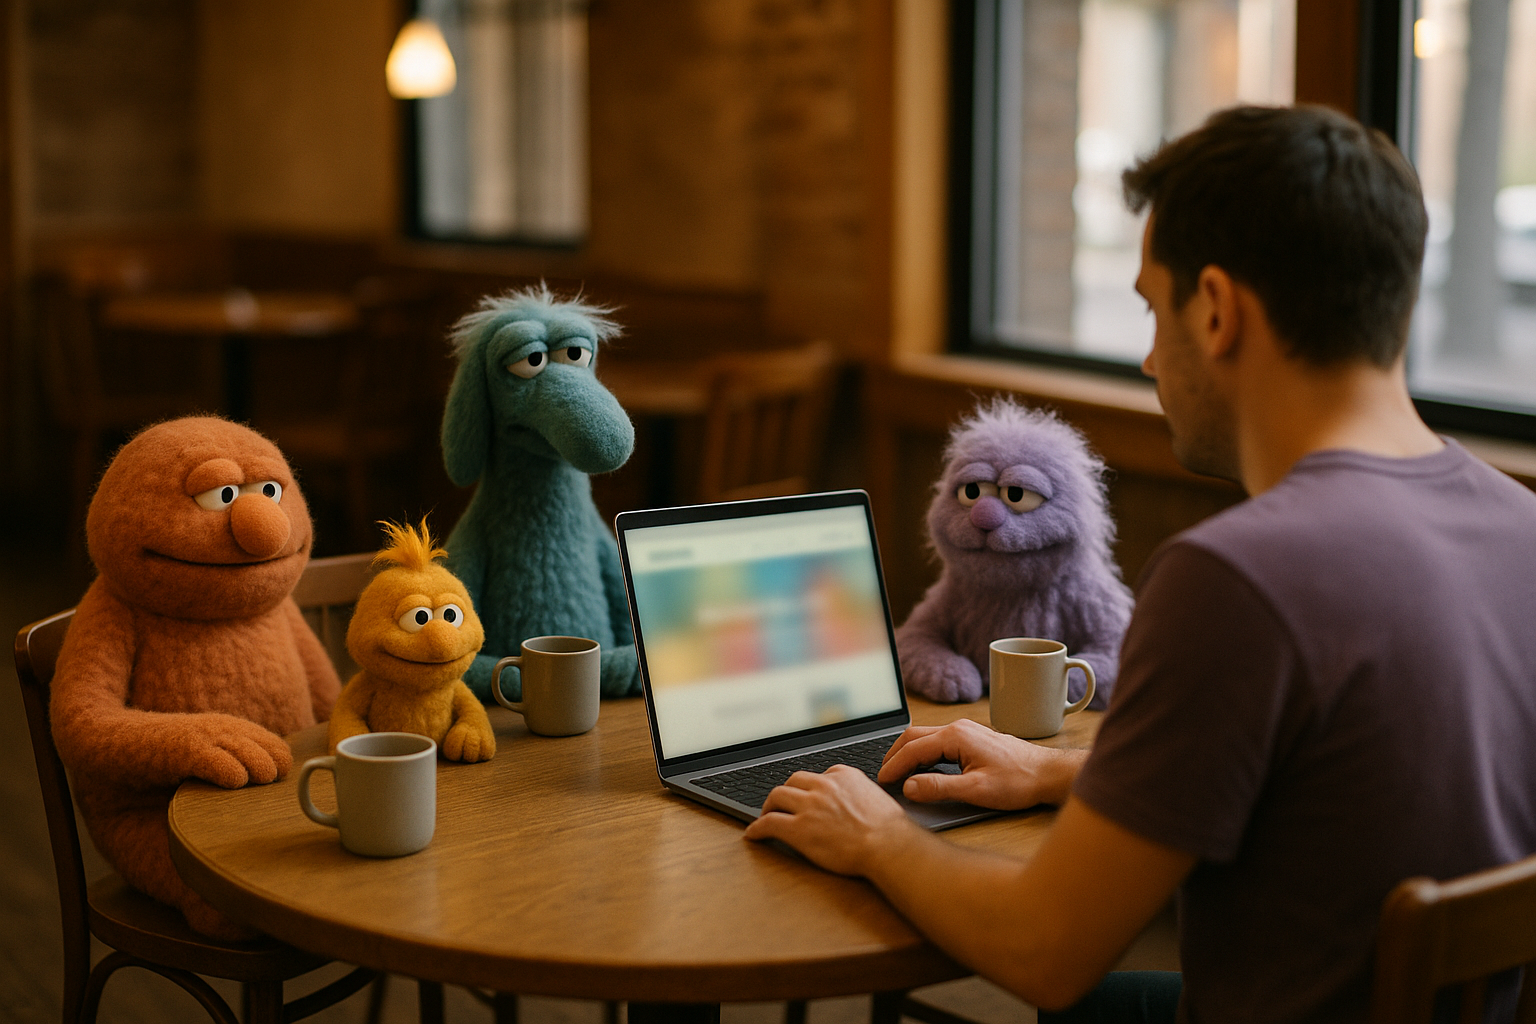
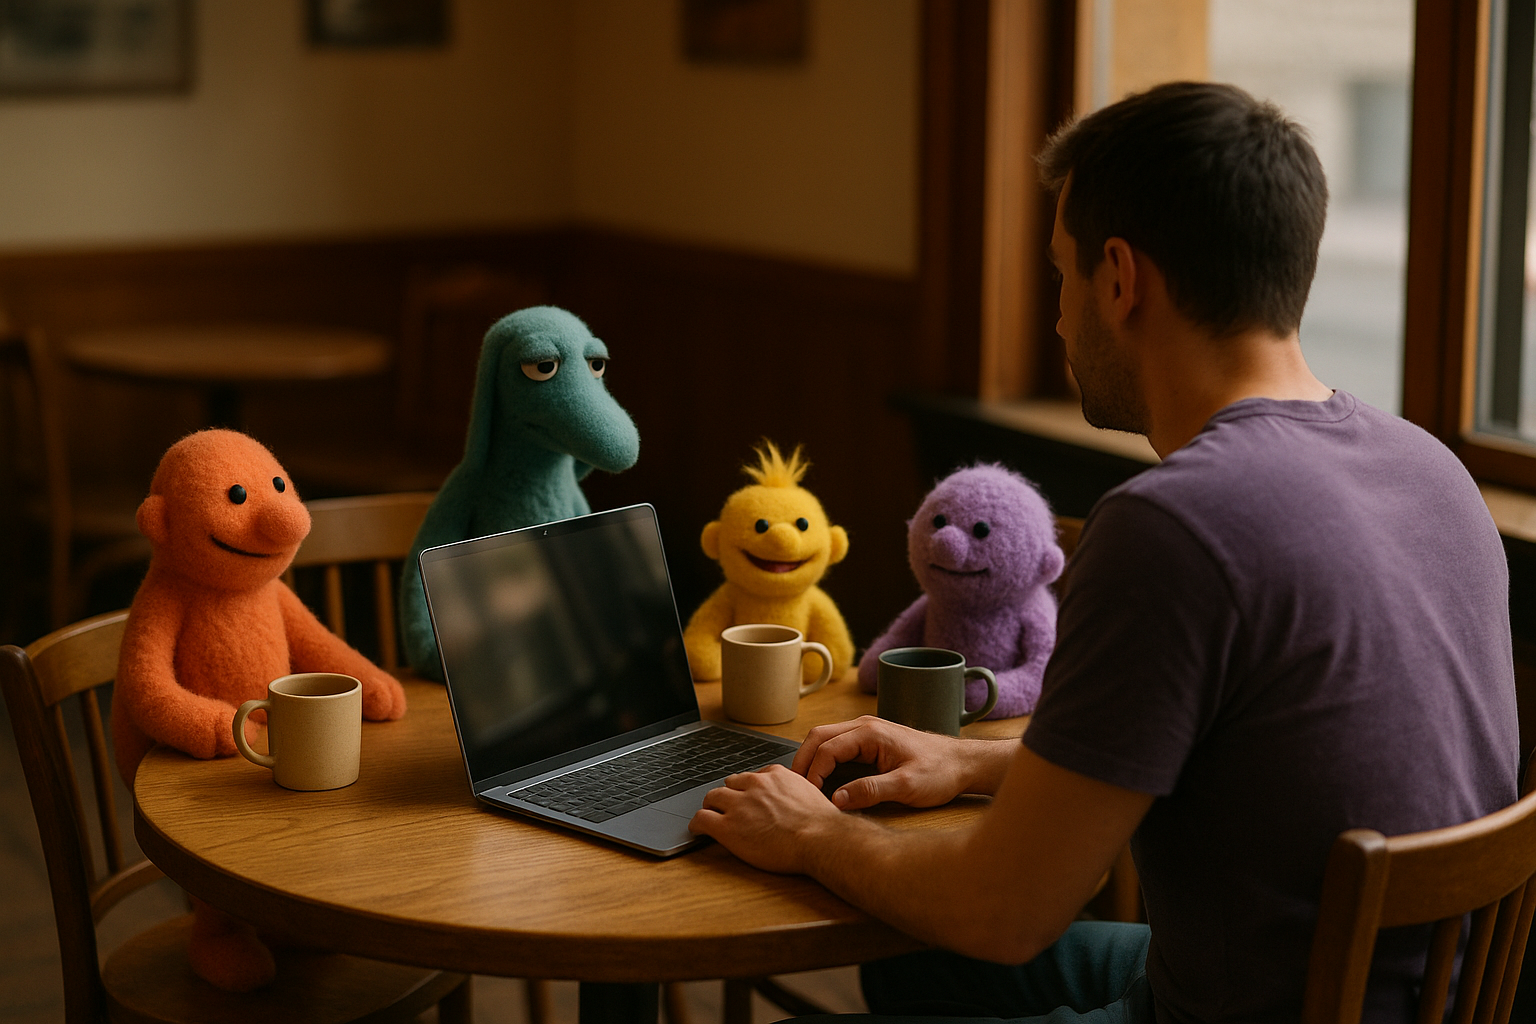
Sync remaining local state to production
- index.html: favicon cache-bust + apple-touch-icon
- keep hero-even-1/3 and hero-ref-* as on-disk alternates
- generator scripts for reproducibility

diff --git a/index.html b/index.html
@@ -5,7 +5,8 @@
   <meta name="viewport" content="width=device-width, initial-scale=1.0" />
   <title>Product Lab</title>
   <meta name="description" content="Product Lab workshop" />
-  <link rel="icon" type="image/png" href="assets/favicon.png" />
+  <link rel="icon" type="image/png" href="assets/favicon.png?v=2" />
+  <link rel="apple-touch-icon" href="assets/favicon.png?v=2" />
   <!-- noindex until launch -->
   <meta name="robots" content="noindex, nofollow" />
 

diff --git a/scripts/gen_hero_v2.py b/scripts/gen_hero_v2.py
@@ -12,33 +12,38 @@ KEY = re.search(r"sk-proj-[A-Za-z0-9_\-]{20,}",
                 Path("/Users/admin/PersonAi/api_key.txt").read_text()).group(0)
 OUT = Path("/Users/admin/productlab-site/assets")
 
-CAST = ("a fixed crew of FOUR original fuzzy felt PUPPET creatures (classic felt "
-        "variety-show spirit but ENTIRELY ORIGINAL, NOT trademarked), each with a DISTINCT "
-        "sophisticated expression full of character - NONE with a big naive goofy grin: "
-        "(1) a TALL teal-blue one with a long soft snout, wearing a cool, slightly serious, "
-        "mildly unimpressed deadpan look, a touch disappointed but cool; "
-        "(2) a ROUND coral-orange one with a relaxed, content, subtly pleased half-smile; "
-        "(3) a SMALL mustard-yellow one with a curious tuft of hair, the CHEERIEST of the "
-        "group - brighter and a little more openly happy and cheered up (the small one is "
-        "allowed to be a bit goofy); "
-        "(4) a FLUFFY lavender-purple one with a cool, satisfied, easy-going expression. "
-        "Real hand-crafted puppets, real fur and texture. Sophisticated, relaxed, enjoying "
-        "themselves, NOT naive, NOT childish, NOT sad")
+CAST = ("a fixed crew of FOUR original fuzzy felt PUPPET creatures (ORIGINAL, NOT "
+        "trademarked), each with a DISTINCT expression and real character, beautifully lit "
+        "with great proportions, NOT goofy: (1) a TALL teal-blue one with a long soft "
+        "snout, COOL and INDIFFERENT, unbothered and deadpan-neutral (NOT sad, NOT droopy, "
+        "NOT gloomy), with calm HALF-CLOSED, heavy-lidded eyes (NOT big fully-open round "
+        "white eyes) - relaxed and characterful; (2) a coral-orange one with a NORMAL, "
+        "WELL-PROPORTIONED body (NOT fat, NOT chubby, NOT bloated) and a warm, POSITIVE, "
+        "friendly expression; (3) a SMALL mustard-yellow one with a curious tuft of hair, "
+        "the HAPPIEST and most cheerful of the group, bright and joyful (the little one); "
+        "(4) a FLUFFY lavender-purple one, cool, relaxed, easy-going and chill. "
+        "Vibrant, sharp, characterful felt puppets with real fur. "
+        "CRITICAL CONSISTENCY RULE: NONE of the four creatures has EARS - every one has a "
+        "smooth rounded head with absolutely NO ears, NO ear shapes, NO bear ears, nothing "
+        "sticking out from the sides or top of the head. Keep them simple and consistent, "
+        "just rounded felt heads with eyes and a mouth")
 
 STYLE = ("A warm, cozy, PHOTOREALISTIC candid documentary PHOTOGRAPH inside a real quiet "
          "softly lit coffee shop, WIDER ZOOMED-OUT view showing the whole round table and "
          "the cozy cafe around it, natural proportions, shallow depth of field, warm window "
-         "light and gentle bokeh, everything physically real and tactile. Relaxed and "
+         "light and gentle bokeh, everything physically real and tactile. Relaxed, vibrant, sharp, beautifully and warmly lit, high quality. "
          "candid. No text.")
 
 MAN = ("a man in his 30s in a casual violet t-shirt with short dark hair, seen FROM BEHIND "
        "on the RIGHT side of the table, only a sliver of profile showing, face mostly hidden")
 
 BASE = (f"{MAN}, sitting at a round wooden cafe table with his HANDS RESTING ON THE TABLE, "
-        f"clearly visible. An open laptop sits on the table clearly visible and not blocked; "
-        f"the LAPTOP SCREEN shows a SOFTLY BLURRED, out-of-focus colorful website landing "
-        f"page with a simple header bar, glowing gently, suggesting a web page being built "
-        f"(not sharp, not detailed). {CAST} are seated spread AROUND the round table with "
+        f"clearly visible. An open laptop sits on the table, TURNED at a slight angle so we "
+        f"see NO interface at all - the glossy dark screen catches only a soft, AMBIGUOUS, "
+        f"BLURRED reflection of a bright window and the room, indistinct and unclear (no "
+        f"recognizable image, NO figures, NO puppets, NO UI, NO app, NO text, NO icons) - "
+        f"just a realistic, natural screen glare and window reflection. {CAST} are seated "
+        f"spread AROUND the round table with "
         "the man, naturally sharing it like friends, no large empty gap. SEATING ORDER FROM "
         "LEFT TO RIGHT (important): the CORAL-ORANGE character sits FIRST at the FAR LEFT as "
         "the most prominent one; the TEAL-BLUE character sits SECOND, next to the orange, "

diff --git a/scripts/gen_hero_ref.py b/scripts/gen_hero_ref.py
@@ -1,0 +1,60 @@
+#!/usr/bin/env python3
+"""Reference-based hero: feed the LOVED character portraits (orange/blue/yellow/purple)
+into gpt-image-1 image EDITS so the hero crew matches them (consistency).
+Usage: python3 scripts/gen_hero_ref.py [n]
+"""
+import base64, json, re, sys, urllib.request
+from pathlib import Path
+
+KEY = re.search(r"sk-proj-[A-Za-z0-9_\-]{20,}",
+                Path("/Users/admin/PersonAi/api_key.txt").read_text()).group(0)
+OUT = Path("/Users/admin/productlab-site/assets")
+REFS = [
+    OUT / "tile-designer.png",  # orange, vibrant, positive
+    OUT / "agent-cto.png",      # blue, cool/serious
+    OUT / "tile-nextai.png",    # yellow, happy
+    OUT / "agent-cpo.png",      # purple, cool
+]
+
+PROMPT = (
+    "Create a warm, cozy, PHOTOREALISTIC coffee-shop scene using the FOUR felt puppet "
+    "characters from the reference images, keeping each one's EXACT look, colours, face, "
+    "eyes and proportions - do not redesign them. Seat them around a small round wooden "
+    "cafe table: the coral-ORANGE one front-left (warm and positive), the teal-BLUE "
+    "long-snouted one just behind (cool and indifferent, calm half-lidded eyes), the small "
+    "mustard-YELLOW one (the happiest), and the lavender-PURPLE one (cool and relaxed). "
+    "A man in a violet t-shirt is seen FROM BEHIND on the right, only his back and a sliver "
+    "of profile. An open laptop sits on the table, turned slightly so its dark glossy screen "
+    "shows only a soft ambiguous reflection - NO interface, NO UI, NO text. Coffee mugs on "
+    "the table, warm window light, cozy brick-wall cafe, gentle bokeh. NONE of the creatures "
+    "has ears. Photorealistic, natural, no text."
+)
+
+def gen(name):
+    boundary = "----plref" + base64.b16encode(__import__("os").urandom(8)).decode()
+    parts = []
+    def field(n, v):
+        parts.append(f"--{boundary}\r\nContent-Disposition: form-data; name=\"{n}\"\r\n\r\n{v}\r\n".encode())
+    field("model", "gpt-image-1"); field("prompt", PROMPT)
+    field("size", "1536x1024"); field("quality", "high")
+    for r in REFS:
+        parts.append(
+            f"--{boundary}\r\nContent-Disposition: form-data; name=\"image[]\"; filename=\"{r.name}\"\r\n"
+            f"Content-Type: image/png\r\n\r\n".encode() + r.read_bytes() + b"\r\n")
+    parts.append(f"--{boundary}--\r\n".encode())
+    body = b"".join(parts)
+    req = urllib.request.Request(
+        "https://api.openai.com/v1/images/edits", data=body,
+        headers={"Authorization": f"Bearer {KEY}",
+                 "Content-Type": f"multipart/form-data; boundary={boundary}"})
+    with urllib.request.urlopen(req, timeout=400) as r:
+        d = json.load(r)
+    (OUT / f"{name}.png").write_bytes(base64.b64decode(d["data"][0]["b64_json"]))
+    print("saved", name)
+
+n = int(sys.argv[1]) if len(sys.argv) > 1 else 3
+for i in range(1, n + 1):
+    try: gen(f"hero-ref-{i}")
+    except Exception as e:
+        import traceback; print("FAIL", i, str(e)[:200])
+print("done")
